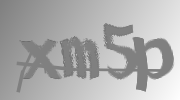
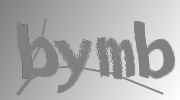
ok

diff --git a/public/js/findDorm.js b/public/js/findDorm.js
@@ -3,7 +3,6 @@
 	{
 		var self = this;
 		this.body = $(document.body);
-		this.getVerify();
 		// 测试页面宽度 ，用于设计自适应
 		// this.test();
 		// this.body.delegate(".handle_btn", "click", function(){

diff --git a/app/Http/Controllers/ActController.php b/app/Http/Controllers/ActController.php
@@ -326,7 +326,7 @@ class ActController extends Controller
     	}
     	$zkzh = $_POST['zkzh'];
     	// $cookieUrl = "http://cet.neea.edu.cn/cet/";
-    	$url = "http://cache.neea.edu.cn/Imgs.do?ik=".$zkzh."&t=0.".rand(10000000000000,100000000000000);
+    	$url = "http://cache.neea.edu.cn/Imgs.do?ik=".$zkzh."&t=0.".abs(mt_rand()<<3);
 		$imgName = "images/verifyGrade.jpg";
 		// 进行cookie的获取
 		$cookieFile = public_path()."/cookie/".md5(date("Y-m-d H:i:s",time())).".cookie";
@@ -560,7 +560,7 @@ class ActController extends Controller
 			$_SESSION['cookieFileBook'] = null;
 		}
 		$cookieFile = public_path()."/cookie/".md5(date("Y-m-d H:i:s",time())).".cookie";
-		$url = "http://lib.suse.edu.cn/tools/verify_code.ashx?time=0.9".rand(10000000000000, 100000000000000);
+		$url = "http://lib.suse.edu.cn/tools/verify_code.ashx?time=0.96".abs(rand(600000,  2550000)<<3);
 		$_SESSION['cookieFileBook'] = $cookieFile;
 		if(getCookie($url, $cookieFile)){
 			echo js_arr("CookieGetFailed");
